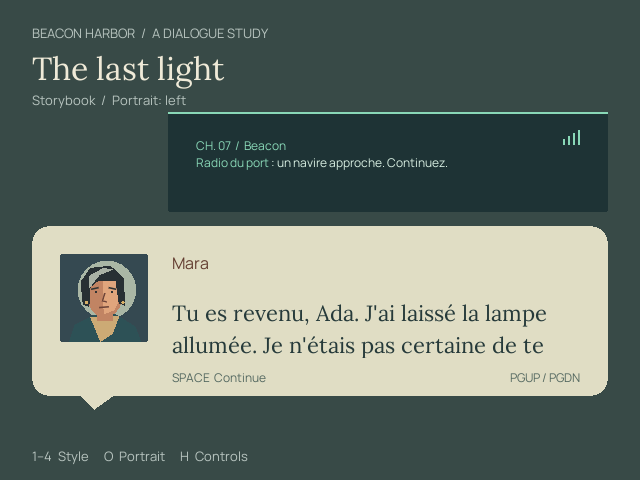
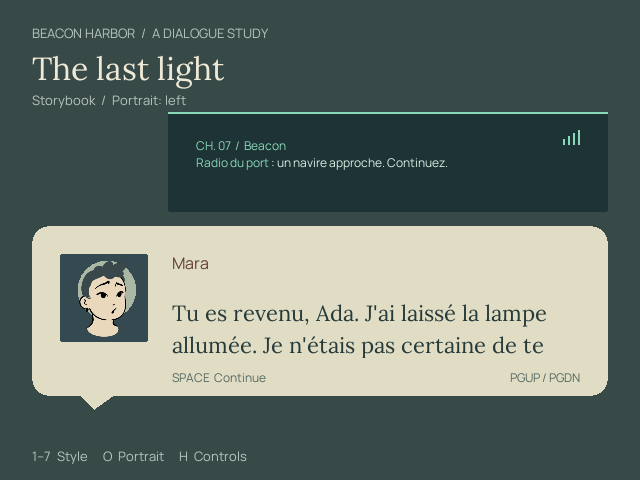
docs(showcase): refresh seven-style Lorelei gallery and controls

diff --git a/examples/dialogue/showcase/README.md b/examples/dialogue/showcase/README.md
@@ -1,6 +1,6 @@
 # Beacon Harbor — The last light
 
-A dialogue-focused LÖVE showcase: a quiet stage, four interchangeable presentations,
+A dialogue-focused LÖVE showcase: a quiet stage, seven interchangeable presentations,
 three Lorelei character portraits, and a branching conversation about a ferry that
 returns six years too late. Start with the story; press **H** when you want the controls.
 
@@ -11,7 +11,7 @@ tua build
 love build
 ```
 
-## Four presentations, one conversation
+## Seven presentations, one conversation
 
 | Key | Presentation | What changes |
 | --- | --- | --- |
@@ -19,6 +19,18 @@ love build
 | **2** | Storybook | Compact pale speech card, literary type, speech tail and warmer text. |
 | **3** | Transmission | Right-aligned receiver panel, channel identity and a cooler palette. |
 | **4** | Subtitles | Unframed dialogue and quiet speaker identification. |
+| **5** | Mythic frame | Additional Hades-like pale panel, double gold border, cut corners and angled dark nameplate. |
+| **6** | Tactics box | Additional Wargroove-like stepped box, burgundy speaker tab, pixel type and diamond cue. |
+| **7** | Field terminal | Additional receiver-style frame, signal rail and monospace dialogue. |
+
+Keys **1–4 retain the original layouts**. The reference-based styles are additions,
+not replacements. All seven share the same dialogue player and portrait options.
+The new frames reproduce layout treatments from the supplied references using host
+primitives; they do not redistribute those games’ interface art.
+
+| Mythic frame | Tactics box | Field terminal |
+| --- | --- | --- |
+| ![Mythic frame](screenshots/mythic.png) | ![Tactics box](screenshots/tactics.png) | ![Field terminal](screenshots/terminal.png) |
 
 **O** cycles portrait placement: left → right → above → hidden. Switch style or
 portrait placement mid-sentence without restarting text, replaying audio or changing
@@ -57,7 +69,7 @@ restoring a checkpoint also restores which story entry it belongs to.
 
 | Key | Action |
 | --- | --- |
-| 1 / 2 / 3 / 4 | Cinematic / storybook / transmission / subtitles |
+| 1–4 / 5–7 | Original presentations / additional reference-based styles |
 | O | Portrait left / right / above / hidden |
 | Space / Enter | Finish revealing, continue, or confirm a reply |
 | Up / Down | Focus a reply; disabled replies explain their requirement |
@@ -87,7 +99,7 @@ restoring a checkpoint also restores which story entry it belongs to.
 | Typed host actions and dialogue locals | `remember` updates owned story memory; `collect` in the short demo grants one token. |
 | Timed events | The opening emits shown/revealed signals; H exposes their counts. |
 | Waits | The radio reply follows an explicit 0.8-second listening interval. |
-| Independent non-blocking messages | N in styles 2–4. Style 1 suspends radio until the modal conversation releases priority. |
+| Independent non-blocking messages | N in styles 2–4 or 7. Styles 1, 5 and 6 suspend radio until the modal conversation releases priority. |
 | Bounded queues | Q: two waiting conversations. N: four waiting messages. Overflow is counted in H. Active entries are additional. |
 | Checkpoint boundaries and restore | F5 saves line/choice/wait boundaries and gives feedback elsewhere. F9 creates a fresh player without replaying settled effects. |
 | Transcript | Tab shows the last eight entries within a 2 KiB string budget; Page Up/Down scrolls. Locale changes preserve the language originally recorded. |
@@ -107,7 +119,7 @@ screen-reader bridge, bidirectional text layout, or full script shaping in this 
 | `story.tua`, `actions.tua`, `events.tua` | Typed facts, locals, actions and notification payloads |
 | `controller.tua` | Host channel priority, queues, checkpoints and story-local memory |
 | `characters.tua`, `translations.tua` | Shared character metadata and French templates |
-| `presenter.tua`, `theme.tua`, `portraits.tua` | Layout, palettes, fonts, expression art and reveal rendering |
+| `presenter.tua`, `frames.tua`, `styles.tua`, `theme.tua`, `portraits.tua` | Layout, palettes, fonts, expression art and reveal rendering |
 | `audio.tua`, `backend.tua` | Cue policy and owned native Sources |
 | `main.tua` | Minimal stage, keyboard routing, overlays and lifecycle callbacks |
 
@@ -124,11 +136,12 @@ python3 verify.py --tua ../../../target/release/tua --love /path/to/love --outpu
 python3 verify.py --tua ../../../target/release/tua --love /path/to/love --scenario styles --output /tmp/dialogue-styles --video
 ```
 
-Each output directory must be new. Headless checks run emitted Lua and cover all
+Each output directory must be new. Headless checks validate portrait hashes, distinct expression images and image disposal,
+then run emitted Lua and cover all
 endings, relationship variants, gated replies, localization coverage, checkpoint
 memory, queues and the five showcase lifecycle regressions. Native lifecycle replay
-covers actual input/render/audio callbacks. The style replay captures **32 combinations**:
-four styles × four portrait placements × two window sizes, plus narrow choices,
+covers actual input/render/audio callbacks. The style replay captures **56 combinations**:
+seven styles × four portrait placements × two window sizes, plus narrow choices,
 French text with concurrent radio, help and transcript. Captures are functional visual
 checks, not FPS benchmarks; MP4s are silent. `screenshots/provenance.json` identifies
 the source replay and frame selected for each checked-in screenshot.

diff --git a/examples/dialogue/showcase/DESIGN.md b/examples/dialogue/showcase/DESIGN.md
@@ -7,7 +7,7 @@ reading an actual conversation. The words, speaker and next decision lead. The s
 is flat and quiet; there is no decorative harbor simulation. H hides technical controls
 and diagnostics until requested. The three characters are the visual anchor.
 
-## Visual grammar
+## Original visual grammar (keys 1–4)
 
 - Cinematic: dark slate, fine brass framing, an overlapping bust on roomy windows.
 - Storybook: a smaller asymmetrical pale speech card with a tail and Lora body text.
@@ -28,6 +28,25 @@ so lines and choices do not shift as glyphs arrive. Stable line height, wrapped 
 auto-scrolled choice focus, and explicit manual scrolling protect long/localized content.
 The footer belongs to input hints, not diagnostics. Do not revive the always-visible
 four-line developer HUD or place a decorative animation behind the text.
+
+## Additional reference styles (keys 5–7)
+
+The original four styles remain available. Additions use their own palettes and
+frame module so the new treatments do not replace the original ones.
+
+- **Mythic frame:** the supplied Hades screenshot's pale reading panel, gold double
+  edge, cut corners and dark angled nameplate. The portrait can break the frame.
+- **Tactics box:** the Wargroove screenshot's stepped rectangular frame, pale inset,
+  burgundy speaker tab and small diamond cue. Pixelify Sans adds the pixel type treatment.
+- **Field terminal:** the supplied communication-window screenshot's physical green
+  surround, dark screen, signal-status rail and channel identity. Space Mono gives
+  it a separate typographic rhythm. Status-rail marks are decorative indicators,
+  not interactive buttons.
+
+Mara, Ivo and Beacon now use bundled DiceBear Lorelei avatars. Fixed seeds and
+explicit component options keep identity stable across expression variants. The
+slate square and sage circular portrait backgrounds are unchanged, including when
+the portrait overlaps a frame. No request is made to DiceBear during play.
 
 ## References and interpretation
 
@@ -54,8 +73,8 @@ choices, and uses a small relationship variant after reconvergence. See
 
 ## Keep checking
 
-Capture all four styles, all four portrait positions, both sizes, and French text.
+Capture all seven styles, all four portrait positions, both sizes, and French text.
 Inspect the last choice after keyboard scrolling, the disabled explanation, concurrent
 radio, and completed states. The old crash/empty-panel/locale/priority/focus tests remain.
-Procedural portraits are deliberately replaceable: use `node.portrait` as the lookup ID
+Bundled Lorelei portraits are deliberately replaceable: use `node.portrait` as the lookup ID
 for your own licensed illustration or animation adapter.

diff --git a/docs/dialogue.md b/docs/dialogue.md
@@ -27,7 +27,9 @@ Start with [your first conversation](#your-first-conversation), then add
 ## Try the LÖVE showcase
 
 [Beacon Harbor](https://github.com/kyonru/tua-lang/tree/main/examples/dialogue/showcase)
-uses the same player for cinematic, storybook, transmission and unframed subtitle presentations.
+uses the same player for seven presentations: the original cinematic, storybook,
+transmission and subtitle styles, plus mythic, tactics and terminal frames. Lorelei
+character portraits retain their separate slate-and-sage backgrounds.
 The longer story includes a question hub, three outcomes, and a relationship-dependent
 ending variant. Portraits can sit left, right, above the panel, or be hidden.
 It includes a second independent announcement player, English/French templates,
@@ -43,7 +45,8 @@ tua build
 love build
 ```
 
-Press **1/2/3/4** to change presentation and **O** to cycle portrait placement.
+Press **1–4** for the original styles, **5–7** for the additional reference-based
+styles, and **O** to cycle portrait placement.
 **H** opens controls/diagnostics, **Tab** opens the scrollable recent transcript, and
 **F2** switches between the longer story and the short feature demonstration. **Space** finishes reveal, then advances;
 **Up/Down** and **Enter** select replies. **F** changes reveal speed, **M** reduces
@@ -51,7 +54,7 @@ motion, **S** toggles subtitles and **V** mutes recorded voice. **L** switches
 language, **P** pauses, **R** resets, **Q/N** queue conversations/announcements,
 and **F5/F9** capture/restore an in-memory checkpoint. Page Up/Down scroll content.
 
-Cinematic mode gives the conversation modal priority and suspends radio; the other
+Cinematic, mythic and tactics modes give the conversation modal priority and suspends radio; the other
 styles permit concurrent announcements. The background stays quiet so dialogue is
 the focus. These are example host policies. The engine does not decide
 whether your game pauses or which channel owns input. Two conversation and four

diff --git a/CHANGELOG.md b/CHANGELOG.md
@@ -6,6 +6,9 @@ language or editor behavior, and migration notes call out those changes.
 
 ## [Unreleased]
 
+- Add bundled Lorelei portrait variants and three additional reference-based dialogue
+  frames to Beacon Harbor; retain the four original styles and portrait backgrounds.
+
 - Expand Beacon Harbor with a branching bilingual story, remembered choices, four
   dialogue-focused UI styles, independent portrait placement, and scrollable history.
   Add native visual coverage across styles, portrait layouts and window sizes.
